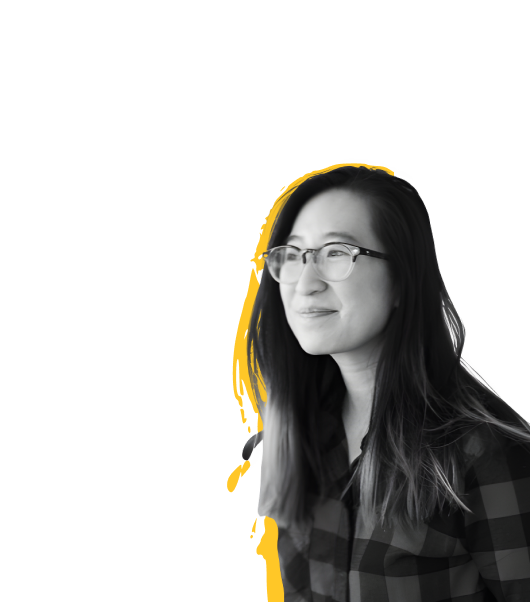
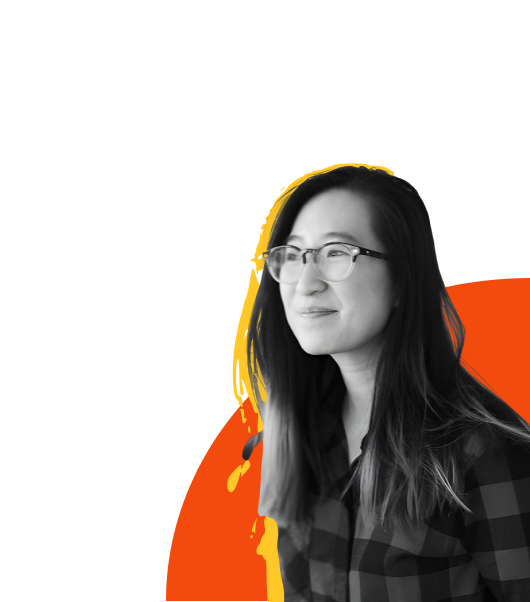
fix img

Changed region(s): [[0.3019, 0.6578, 0.5132, 1.0], [0.8151, 0.4485, 1.0, 0.7176]]

diff --git a/src/pages/Home/styles.ts b/src/pages/Home/styles.ts
@@ -1,7 +1,7 @@
 import styled from "styled-components";
 
 export const StyledApp = styled.div`
-  background: #FF9F5A;
+  background: #FD9526;
   min-height: 100vh;
   width: 100%;
 `;
@@ -112,25 +112,6 @@ export const HeroImageWrapper = styled.div`
   }
 `;
 
-export const HeroVectorWrapper = styled.div`
-  position: absolute;
-  bottom: -20%;
-  right: -10%;
-  width: 100%;
-  height: 100%;
-  z-index: 1;
-
-  img {
-    width: 100%;
-    height: auto;
-    object-fit: contain;
-  }
-
-  @media (max-width: 768px) {
-    bottom: -10%;
-    right: -5%;
-  }
-`;
 
 export const ServicesSection = styled.section`
   padding: 4rem 0;

diff --git a/src/pages/Home/index.tsx b/src/pages/Home/index.tsx
@@ -9,7 +9,6 @@ import {
   ServiceCard,
   DiscoverButton,
   HeroImageWrapper,
-  HeroVectorWrapper,
 } from './styles';
 import Navbar from '../../components/Navbar';
 
@@ -37,9 +36,6 @@ const Home: React.FC = () => {
           </HeroContent>
           <HeroImageWrapper>
             <img src="/public/home/hero.png" alt="Empreendedor" />
-            <HeroVectorWrapper>
-              <img src="/public/home/hero-vector.png" alt="Decoração" />
-            </HeroVectorWrapper>
           </HeroImageWrapper>
         </HeroSection>
 
